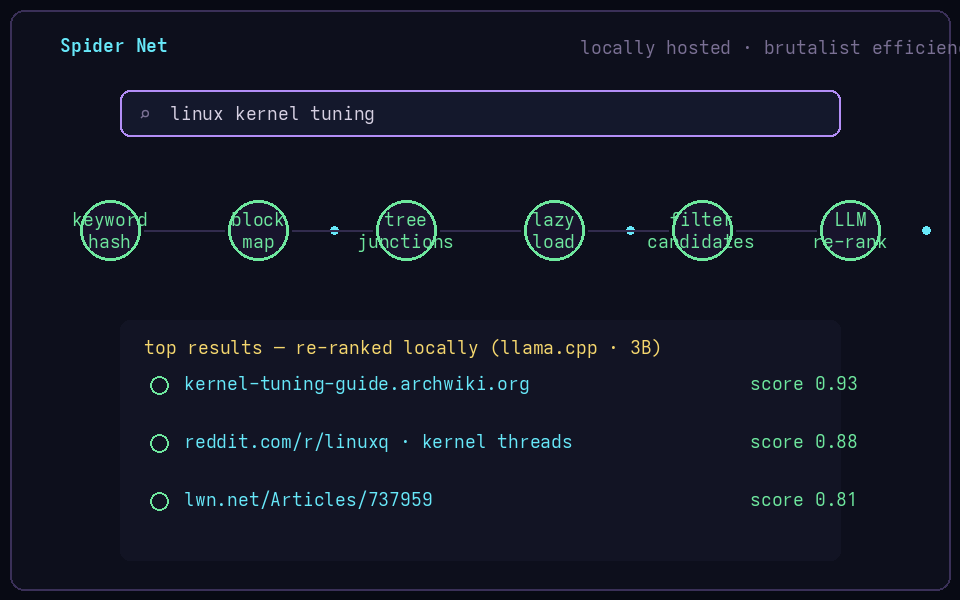
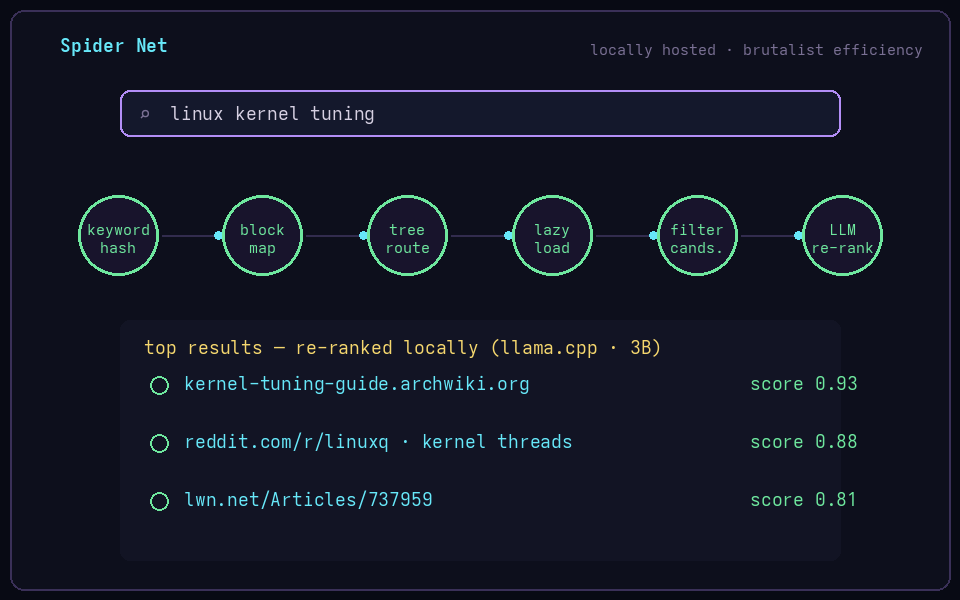
Interactive detail modals for craft cards and research controls; fix spider-flow GIF label overflow

Changed region(s): [[0.0625, 0.3, 0.9375, 0.48], [0.5938, 0.06, 1.0, 0.09], [0.9375, 0.36, 0.9688, 0.39]]

diff --git a/research.html b/research.html
@@ -37,20 +37,41 @@
 
 <section style="padding-top:20px">
   <div class="wrap">
-    <div class="sec-head reveal"><span class="eyebrow">// the eight gates</span><h2>Controls, what they caught, what they cost</h2></div>
+    <div class="sec-head reveal"><span class="eyebrow">// the eight gates</span><h2>Controls, what they caught, what they cost</h2>
+      <p>Click any control for the full card — rule, error class, the real number it destroyed, and procedure.</p></div>
     <table class="tbl reveal">
       <thead><tr><th>#</th><th>Control</th><th>Catches</th><th>Cost to run</th></tr></thead>
       <tbody>
-        <tr><td>C1</td><td>Init-time RMS pre-flight</td><td>Silent forward-map divergence — a model scoring 59.8% with a 292× residual growth profile, dead at high routing temperature.</td><td>~1 min · one forward pass, no optimizer step</td></tr>
-        <tr><td>C2</td><td>Teaching-leakage default hypothesis</td><td>Supervision leaking into the eval channel. Default assumption: good accuracy is guilty until a teaching-off probe says otherwise.</td><td>One inference probe with washout period</td></tr>
-        <tr><td>C3</td><td>Degree-matched shuffled control</td><td>Structure claims where the topology isn't load-bearing — shuffle the wiring, keep degrees, see what survives.</td><td>1 retrain per headline claim</td></tr>
-        <tr><td>C4</td><td>Matched training budget</td><td>+12.2 points of pure training length misread as an architecture win.</td><td>Free — it's arithmetic you skipped</td></tr>
-        <tr><td>C5</td><td>Oracle bound as direction-killer</td><td>Adaptive-depth dreams where a perfect depth oracle gains +0.00 points. The gap doesn't exist; stop building for it.</td><td>One analysis script</td></tr>
-        <tr><td>C6</td><td>Routed-fraction threshold</td><td>"MoE wins" claims where routing touched a fraction of items too small to matter.</td><td>Logging you should already have</td></tr>
-        <tr><td>C7</td><td>Plateau-matched generalisation</td><td>Comparisons made on the training slope instead of both curves' plateaus.</td><td>Run to plateau — then compare</td></tr>
-        <tr><td>C8</td><td>Seed replication</td><td>The single lucky seed. Applies to every headline claim, no exceptions.</td><td>3–5 seeds; embarrassingly parallel</td></tr>
+        <tr data-detail="ctl-c1" data-kicker="// control c1 · forward computation" data-title="Init-time RMS pre-flight"><td>C1</td><td>Init-time RMS pre-flight</td><td>Silent forward-map divergence — a model scoring 59.8% with a 292× residual growth profile, dead at high routing temperature.</td><td>~1 min · one forward pass, no optimizer step</td></tr>
+        <tr data-detail="ctl-c2" data-kicker="// control c2 · measurement integrity" data-title="Teaching-leakage default hypothesis"><td>C2</td><td>Teaching-leakage default hypothesis</td><td>Supervision leaking into the eval channel. Default assumption: good accuracy is guilty until a teaching-off probe says otherwise.</td><td>One inference probe with washout period</td></tr>
+        <tr data-detail="ctl-c3" data-kicker="// control c3 · load-bearingness" data-title="Degree-matched shuffled control"><td>C3</td><td>Degree-matched shuffled control</td><td>Structure claims where the topology isn't load-bearing — shuffle the wiring, keep degrees, see what survives.</td><td>1 retrain per headline claim</td></tr>
+        <tr data-detail="ctl-c4" data-kicker="// control c4 · comparison validity" data-title="Matched training budget"><td>C4</td><td>Matched training budget</td><td>+12.2 points of pure training length misread as an architecture win.</td><td>Free — it's arithmetic you skipped</td></tr>
+        <tr data-detail="ctl-c5" data-kicker="// control c5 · load-bearingness" data-title="Oracle bound as direction-killer"><td>C5</td><td>Oracle bound as direction-killer</td><td>Adaptive-depth dreams where a perfect depth oracle gains +0.00 points. The gap doesn't exist; stop building for it.</td><td>One analysis script</td></tr>
+        <tr data-detail="ctl-c6" data-kicker="// control c6 · load-bearingness" data-title="Routed-fraction threshold"><td>C6</td><td>Routed-fraction threshold</td><td>"MoE wins" claims where routing touched a fraction of items too small to matter.</td><td>Logging you should already have</td></tr>
+        <tr data-detail="ctl-c7" data-kicker="// control c7 · comparison validity" data-title="Plateau-matched generalisation"><td>C7</td><td>Plateau-matched generalisation</td><td>Comparisons made on the training slope instead of both curves' plateaus.</td><td>Run to plateau — then compare</td></tr>
+        <tr data-detail="ctl-c8" data-kicker="// control c8 · comparison validity" data-title="Seed replication"><td>C8</td><td>Seed replication</td><td>The single lucky seed. Applies to every headline claim, no exceptions.</td><td>3–5 seeds; embarrassingly parallel</td></tr>
       </tbody>
     </table>
+    <div hidden>
+      <div id="ctl-c1"><p><b>Rule:</b> log per-level <code>RMS(x)</code> at random init with no optimizer step; refuse any config whose final-level RMS exceeds ~10² before spending a training step on it.</p>
+        <p><b>What it caught:</b> <code>D128_long</code> reached 59.8% exact match on character arithmetic with a converging loss curve — while its residual stream grew 292× from level 1 to 7. The mechanism: routed experts read the raw residual; SwiGLU responds as ‖x‖², so each update scales with the state it's added to. fp32 doesn't rescue it. Cause was one missing LayerNorm.</p>
+        <p><b>The lesson:</b> a model reaching high accuracy is not evidence that its forward map is bounded. The fix moved headline accuracy +0.2 points and eliminated every NaN (10.34% of logged steps → 0/234) — real, fully explained, orthogonal to the metric.</p></div>
+      <div id="ctl-c2"><p><b>Rule:</b> whenever accuracy looks good, the default hypothesis is that a path still exists by which the training signal reaches the measured variable. No number counts until a teaching-off inference probe (washout + late-trial scoring window) has run.</p>
+        <p><b>What it caught:</b> in DIH-S, five separate leaks and one representability failure all produced accuracy that was real arithmetic on real measurements — and meaningless as evidence. Removing one leak created another; the decoder target wasn't even representable, so the metric measured an initialisation constant.</p>
+        <p><b>Corollary:</b> an unmeasured claim is not a low-scoring claim. Absent evidence must never be silently converted into a weak positive or negative.</p></div>
+      <div id="ctl-c3"><p><b>Rule:</b> before crediting architecture, shuffle the topology while matching node degrees. If performance survives the shuffle, your structure story is about degree statistics, not your design.</p>
+        <p><b>What it caught:</b> GEODE/DIH-S connectivity claims that survived every ablation except this one — shuffled graphs with matched degree distributions performed equivalently, killing "the wiring matters" conclusions that had already been drafted.</p></div>
+      <div id="ctl-c4"><p><b>Rule:</b> no comparison ships unless both sides trained for the number of steps named in the caption, one shared optimizer and schedule.</p>
+        <p><b>What it caught:</b> Paper 1 measured +12.2 points of exact match from training length alone — enough to manufacture or destroy any architecture effect at this scale. Several early "dense wins" were too generous to us; the fix rewrote the results table.</p></div>
+      <div id="ctl-c5"><p><b>Rule:</b> before building adaptive behaviour, compute the oracle bound: the best possible per-item decision given your own measured curves. If the oracle's gain is ~0, no learned policy can find what isn't there.</p>
+        <p><b>What it caught:</b> the entire adaptive-depth program. The oracle's maximum attainable accuracy equalled the best fixed depth to two decimal places (61.87% vs 61.87%, +0.00 points) — and extra depth actively hurt. The routing machinery was healthy; routing simply wasn't where the compute is.</p></div>
+      <div id="ctl-c6"><p><b>Rule:</b> report the fraction of items where routing actually changed execution. Below threshold, "MoE wins" claims describe a rounding error, not an architecture.</p>
+        <p><b>What it caught:</b> HMoE funnel-routing improvements that turned out to ride on routed fractions too small for any mechanism to exploit at scale.</p></div>
+      <div id="ctl-c7"><p><b>Rule:</b> compare generalisation at both curves' plateaus, never mid-slope. Slope comparisons reward faster overfitting.</p>
+        <p><b>What it caught:</b> HMoE comparisons that flipped sign once both models plateaued — the "loser" was simply slower to converge, not worse.</p></div>
+      <div id="ctl-c8"><p><b>Rule:</b> every headline claim replicates across 3–5 seeds; report the spread, not the best run.</p>
+        <p><b>What it caught:</b> Paper 3's seed-to-seed variance was large enough to flip conclusions — several single-seed effects were luck of initialisation. Replication is embarrassingly parallel and always has been.</p></div>
+    </div>
     <p class="reveal" style="color:var(--ink-faint);margin-top:18px;font-size:.9rem">Plus two secondary controls (in-sample vs held-out splits; testing effects not quantities). Full protocol, procedures and rejection thresholds in the paper — figures below are from it.</p>
   </div>
 </section>

diff --git a/index.html b/index.html
@@ -100,15 +100,45 @@
       <h2>Infrastructure instincts, research discipline</h2>
     </div>
     <div class="grid g3">
-      <div class="feat reveal"><div class="ic">⛓</div><h3>Agents that survive autonomy</h3><p>Layered permission gates, hard-deny policies and injection quarantines — long-running agents without catastrophic blast radius.</p></div>
-      <div class="feat reveal d1"><div class="ic">🧮</div><h3>Local-first AI stacks</h3><p>Quantized serving, embedding retrieval, crawl-budget intelligence. Capability without per-token rent.</p></div>
-      <div class="feat reveal d2"><div class="ic">🔬</div><h3>Claims before vibes</h3><p>Matched budgets, seed replication, oracle bounds. I publish the negative results too — that's where the signal lives.</p></div>
-      <div class="feat reveal"><div class="ic">🎮</div><h3>10 years of real-time DNA</h3><p>Games, VR/AR and Unity lead-engineering taught me frame budgets and feel. TUIs get the same treatment.</p></div>
-      <div class="feat reveal d1"><div class="ic">🛠</div><h3>Ship it properly</h3><p>Installers, watchdogs, systemd units, docs. Software that runs at 3am without me touching it.</p></div>
-      <div class="feat reveal d2"><div class="ic">🧭</div><h3>Lead &amp; multiply</h3><p>Mentored engineers, set standards, ran agentic code-review infra at scale. Code is a team sport.</p></div>
+      <div class="feat reveal" data-detail="d-agents" data-kicker="// deep dive" data-title="Agents that survive autonomy"><div class="ic">⛓</div><h3>Agents that survive autonomy</h3><p>Layered permission gates, hard-deny policies and injection quarantines — long-running agents without catastrophic blast radius.</p></div>
+      <div class="feat reveal d1" data-detail="d-local" data-kicker="// deep dive" data-title="Local-first AI stacks"><div class="ic">🧮</div><h3>Local-first AI stacks</h3><p>Quantized serving, embedding retrieval, crawl-budget intelligence. Capability without per-token rent.</p></div>
+      <div class="feat reveal d2" data-detail="d-claims" data-kicker="// deep dive" data-title="Claims before vibes"><div class="ic">🔬</div><h3>Claims before vibes</h3><p>Matched budgets, seed replication, oracle bounds. I publish the negative results too — that's where the signal lives.</p></div>
+      <div class="feat reveal" data-detail="d-rt" data-kicker="// deep dive" data-title="Real-time DNA"><div class="ic">🎮</div><h3>10 years of real-time DNA</h3><p>Games, VR/AR and Unity lead-engineering taught me frame budgets and feel. TUIs get the same treatment.</p></div>
+      <div class="feat reveal d1" data-detail="d-ship" data-kicker="// deep dive" data-title="Ship it properly"><div class="ic">🛠</div><h3>Ship it properly</h3><p>Installers, watchdogs, systemd units, docs. Software that runs at 3am without me touching it.</p></div>
+      <div class="feat reveal d2" data-detail="d-lead" data-kicker="// deep dive" data-title="Lead &amp; multiply"><div class="ic">🧭</div><h3>Lead &amp; multiply</h3><p>Mentored engineers, set standards, ran agentic code-review infra at scale. Code is a team sport.</p></div>
     </div>
   </div>
 </section>
+
+<div hidden>
+  <div id="d-agents"><p>Giving an LLM shell access is easy. Keeping it safe across hour-long autonomous runs is the engineering:</p>
+    <ul><li><b>Hard-deny layer</b> — <code>rm -rf /</code>, raw device writes, fork bombs and fetch-piped-to-shell are never executed, even with approval or YOLO mode.</li>
+    <li><b>Persistent permission rules</b> — Allow once / Always / Never dialogs that survive restarts and can't resurrect a hard-deny.</li>
+    <li><b>Prompt-injection quarantine</b> — web pages are digested by a reader agent holding entirely inert tools; any tool call flags the URL and its content never reaches the main agent.</li></ul>
+    <p>All of this ships in Penguin Command.</p><a class="btn" href="projects/penguin-command.html">See the safety engine →</a></div>
+  <div id="d-local"><p>Two years of building the full local AI stack, top to bottom:</p>
+    <ul><li>Quantized model serving (Unsloth, Ollama, LM Studio, llama.cpp) with latency instrumentation.</li>
+    <li>Embedding search and vector retrieval over real corpora.</li>
+    <li>Crawl-budget intelligence — scoring URLs before fetching them so bandwidth goes where queries live.</li></ul>
+    <p>Spider Net is the flagship: a whole search engine that runs on one machine you own.</p><a class="btn" href="projects/spider-net.html">Explore Spider Net →</a></div>
+  <div id="d-claims"><p>Six architecture projects, each producing results that were plausible, internally consistent — and wrong. None caught by a reviewer or a loss curve.</p>
+    <ul><li>Every headline claim gets matched budgets, seed replication and an oracle bound before it's believed.</li>
+    <li>Two internal headline positives were retracted once the gates ran; both retractions became case studies.</li>
+    <li>The full protocol — eight enforceable gates with numeric rejection thresholds — is published on this site.</li></ul>
+    <a class="btn" href="research.html">Read the eight controls →</a></div>
+  <div id="d-rt"><p>A decade in games and VR before AI: Unity lead engineer taking medical VR to testing-ready, Unreal and C++ training delivery, SDK work on a global game platform.</p>
+    <ul><li>Frame budgets teach you that perceived responsiveness is the feature — my terminal UIs animate at 120Hz-friendly costs and degrade gracefully.</li>
+    <li>Every interactive element on this site has a no-motion fallback for exactly that reason (try the ✦ button).</li></ul></div>
+  <div id="d-ship"><p>The unglamorous 90% is where software either becomes a product or stays a demo:</p>
+    <ul><li>Cross-platform installers (sh + ps1) that bootstrap toolchains and wire shell integration.</li>
+    <li>systemd watchdogs with 30s health loops; Docker pipelines with one-command start/stop/logs.</li>
+    <li>Sessions checkpointed after every step so a crash costs at most one move.</li></ul>
+    <p>Penguin Command and Spider Net both install on a fresh machine in under two minutes.</p></div>
+  <div id="d-lead"><p>Senior roles across three industries taught the same lesson: systems fail where people hand off.</p>
+    <ul><li>Led agentic code-review infrastructure at Racing &amp; Sports — setup, integration and ongoing maintenance at org scale.</li>
+    <li>Set coding standards and ramped new staff as lead Unity developer; mentored engineers on architecture and debugging as a trainer.</li>
+    <li>Presented prototypes to clients and investors — technical work counts twice if nobody can understand it.</li></ul></div>
+</div>
 
 <section id="contact">
   <div class="wrap" style="text-align:center;padding-bottom:100px">

diff --git a/assets/css/style.css b/assets/css/style.css
@@ -226,3 +226,26 @@ body.no-motion #neural-canvas{display:none}
   .brand span{font-size:.95rem}
   .hero-inner{padding:60px 0}
 }
+
+/* ---------- detail modals ---------- */
+.modal{position:fixed;inset:0;z-index:110;display:none;place-items:center;padding:4vh 5vw;
+  background:rgba(5,3,14,.8);backdrop-filter:blur(6px)}
+.modal.open{display:grid}
+.modal-card{background:var(--panel);border:1px solid var(--violet);border-radius:var(--r-lg);max-width:640px;
+  width:100%;max-height:84vh;overflow:auto;padding:34px 38px;position:relative;box-shadow:var(--shadow),var(--glow);
+  animation:modal-in .28s}
+.modal-card h3{font-size:1.35rem;margin-bottom:6px;padding-right:44px}
+.modal-card .m-kicker{font-family:var(--font-mono);font-size:.74rem;letter-spacing:2px;text-transform:uppercase;color:var(--cyan)}
+.modal-x{position:absolute;top:16px;right:16px;width:36px;height:36px;border-radius:10px;background:var(--panel2);
+  border:1px solid var(--line);color:var(--ink-dim);cursor:pointer;font-size:.95rem;transition:.2s}
+.modal-x:hover{color:var(--ink);border-color:var(--violet)}
+.modal-body{color:var(--ink-dim);font-size:.95rem;margin-top:14px}
+.modal-body p{margin-bottom:10px}
+.modal-body ul{margin:0 0 12px 20px;display:flex;flex-direction:column;gap:7px}
+.modal-body b,.modal-body strong{color:var(--ink)}
+.modal-body code{background:var(--panel2);padding:1px 6px;border-radius:5px;font-size:.85em;color:var(--violet-2)}
+.modal-card .btn{margin-top:8px}
+@keyframes modal-in{from{opacity:0;transform:translateY(18px) scale(.97)}to{opacity:1;transform:none}}
+[data-detail]{cursor:pointer}
+.tbl tbody tr[data-detail]:hover td:first-child{text-decoration:underline dotted var(--violet);text-underline-offset:5px}
+.tbl tbody tr[data-detail] td:last-child::after{content:" ⓘ";color:var(--ink-faint)}

diff --git a/assets/js/main.js b/assets/js/main.js
@@ -155,6 +155,34 @@
     document.addEventListener("sc:motion", swap);
   });
 
+  /* ---------- detail modals ---------- */
+  const modal = document.createElement("div");
+  modal.className = "modal";
+  modal.innerHTML = `<div class="modal-card" role="dialog" aria-modal="true" aria-labelledby="modal-title">
+    <button class="modal-x" aria-label="Close">✕</button>
+    <span class="m-kicker"></span><h3 id="modal-title"></h3><div class="modal-body"></div></div>`;
+  body.appendChild(modal);
+  function closeModal() { modal.classList.remove("open"); }
+  function openModal(kicker, title, html) {
+    modal.querySelector(".m-kicker").textContent = kicker || "";
+    modal.querySelector("h3").textContent = title || "";
+    modal.querySelector(".modal-body").innerHTML = html;
+    modal.classList.add("open");
+  }
+  modal.addEventListener("click", e => {
+    if (e.target === modal || e.target.classList.contains("modal-x")) closeModal();
+  });
+  document.addEventListener("keydown", e => { if (e.key === "Escape") closeModal(); });
+  document.querySelectorAll("[data-detail]").forEach(el => {
+    el.setAttribute("tabindex", "0"); el.setAttribute("role", "button");
+    const open = () => {
+      const src = document.getElementById(el.dataset.detail);
+      if (src) openModal(el.dataset.kicker || "", el.dataset.title || "", src.innerHTML);
+    };
+    el.addEventListener("click", e => { if (!e.target.closest("a")) open(); });
+    el.addEventListener("keydown", e => { if (e.key === "Enter" || e.key === " ") { e.preventDefault(); open(); } });
+  });
+
   /* ---------- footer year ---------- */
   document.querySelectorAll("[data-year]").forEach(el => el.textContent = new Date().getFullYear());
 })();
